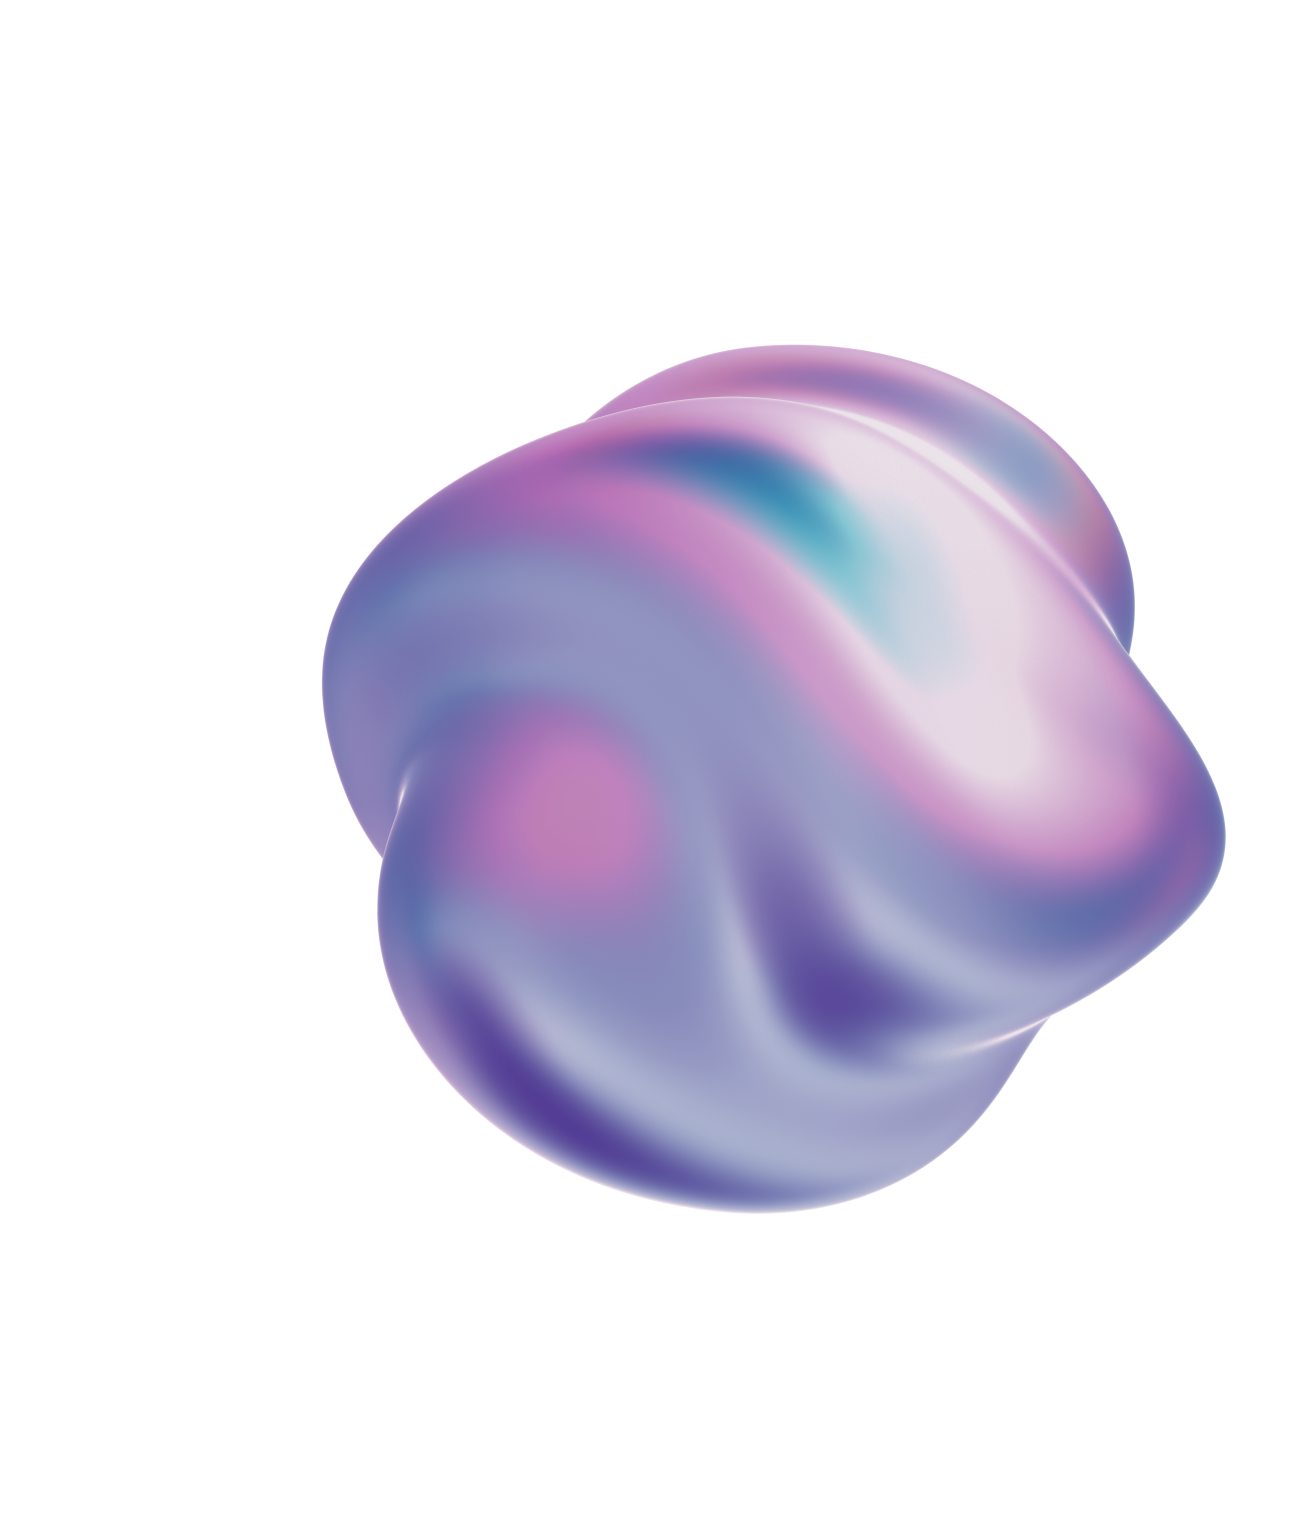
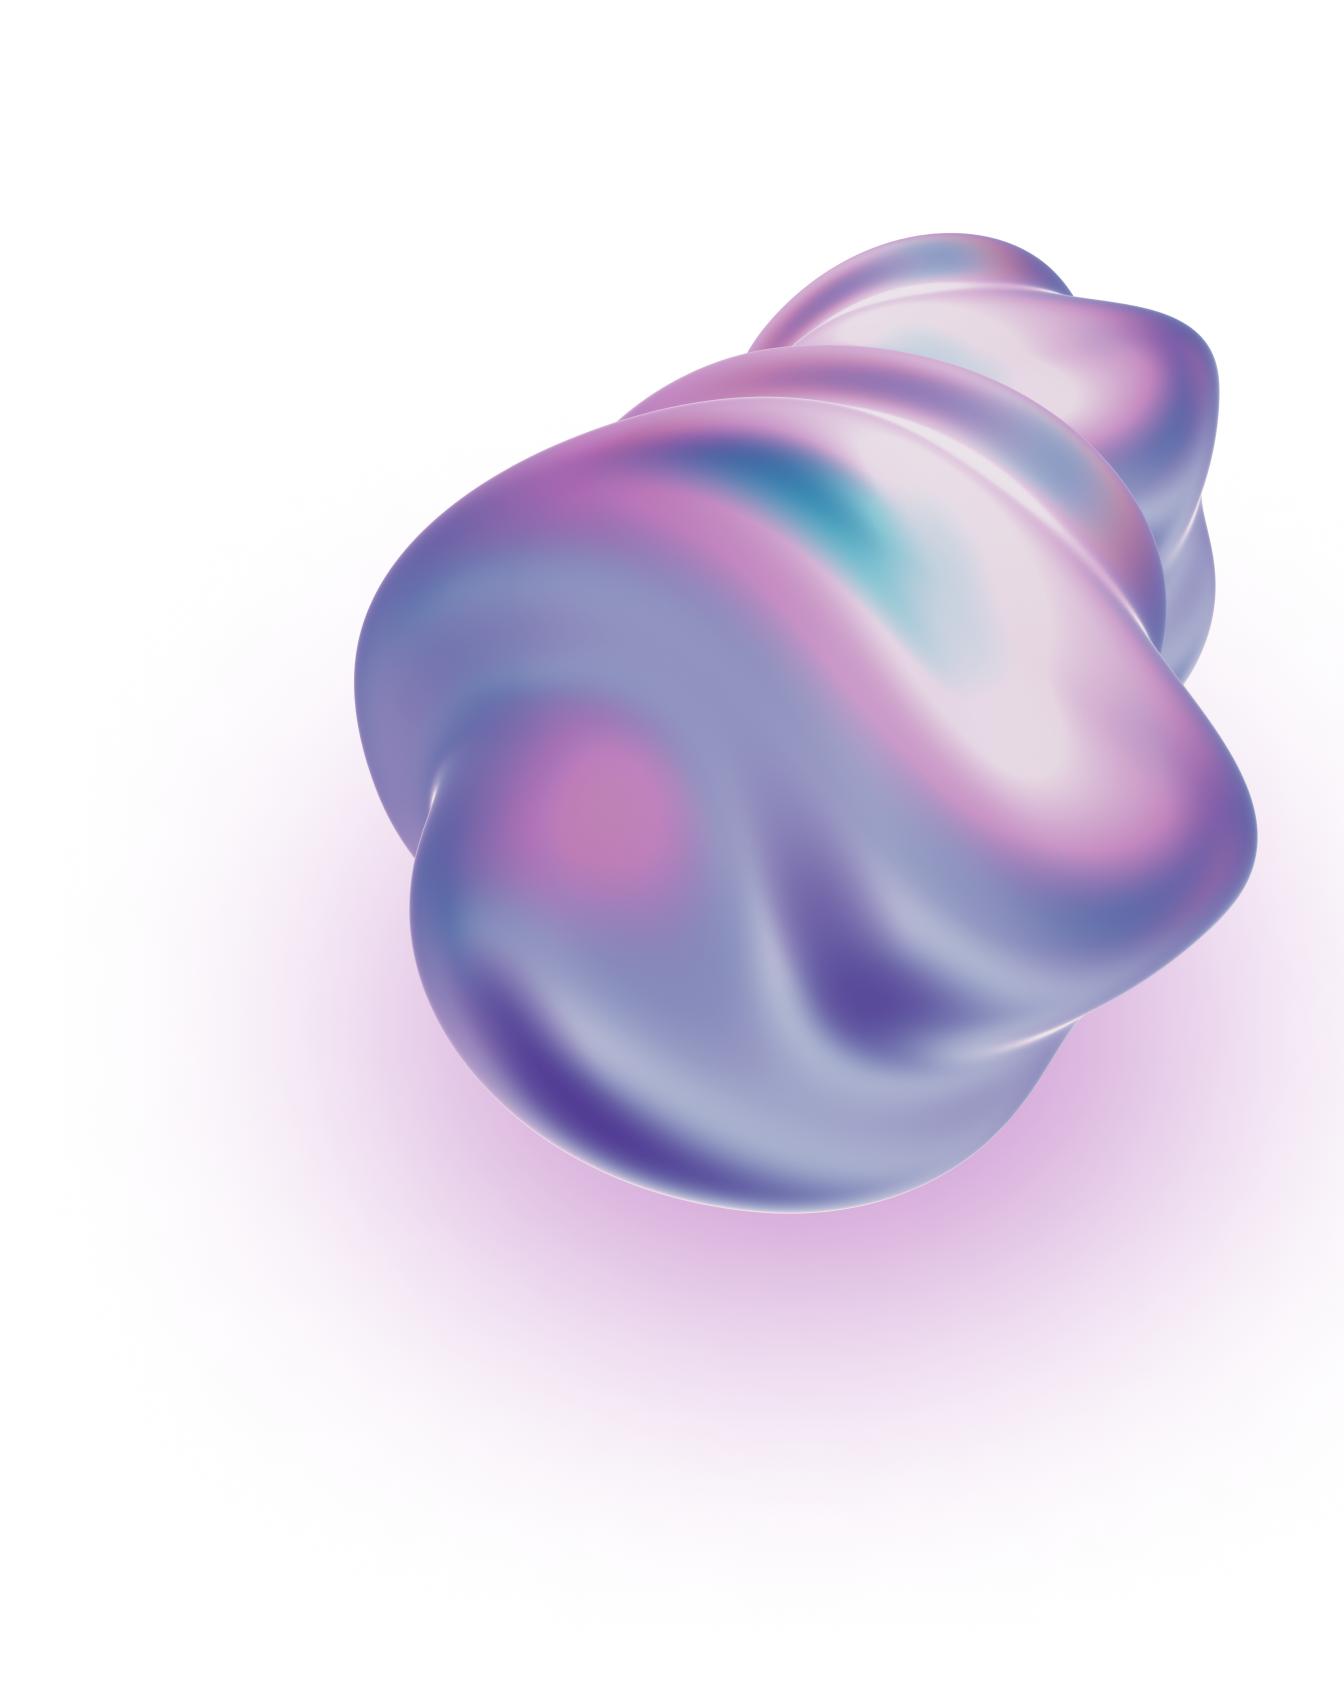
Update: HeroArea

Changed region(s): [[0.2188, 0.1226, 0.9688, 0.8579]]

diff --git a/src/components/Navbar.vue b/src/components/Navbar.vue
@@ -1,17 +1,17 @@
 <template>
-  <nav class="flex items-center w-full bg-black py-4 font-sora">
+  <nav class="flex items-center w-full py-4 font-sora absolute top-0 left-0 z-10">
     <container-wrapper container-classes="flex items-center justify-between">
       <!-- logo -->
       <a href="#">
-        <img class="w-[40px] lg:w-[60px]" :src="Logo" alt="NFT Logo" />
+        <img class="w-[60px]" :src="Logo" alt="NFT Logo" />
       </a>
       <!-- nav menu mobile toggler -->
       <i
         @click="toggleMobileMenu"
-        class="pi pi-bars text-white text-2xl cursor-pointer lg:hidden"
+        class="pi pi-bars text-white text-3xl cursor-pointer lg:hidden"
       ></i>
       <ul
-        :class="`absolute top-0 left-0 z-10 bg-white w-full h-screem p-5 items-center flex-col justify-center h-full gap-10 ${mobileMenuClasses} lg:flex lg:bg-transparent lg:static lg:gap-8 lg:text-white lg:w-fit h-fit lg:flex-row`"
+        :class="`absolute top-0 left-0 z-10 bg-white w-full h-screen p-5 items-center flex-col justify-center gap-10 ${mobileMenuClasses} lg:flex lg:bg-transparent lg:static lg:gap-8 lg:text-white lg:w-fit h-fit lg:flex-row lg:h-fit`"
       >
         <li class="text-3xl uppercase cursor-pointer lg:text-lg lg:capitalize">Home</li>
         <li class="text-3xl uppercase cursor-pointer lg:text-lg lg:capitalize">
@@ -22,7 +22,7 @@
         </li>
         <i
           @click="toggleMobileMenu"
-          class="pi pi-times absolute top-5 right-5 cursor-pointer text-2xl text-black z-20 lg:hidden"
+          class="pi pi-times absolute top-5 right-5 cursor-pointer text-3xl text-black z-20 lg:hidden"
         ></i>
       </ul>
     </container-wrapper>

diff --git a/src/components/HeroArea.vue b/src/components/HeroArea.vue
@@ -1,0 +1,44 @@
+<template>
+  <div
+    class="h-[50vh] w-full bg-hero bg-cover bg-fixed bg-center flex flex-col items-center justify-center text-white lg:justify-end lg:pb-[60px]"
+  >
+    <container-wrapper container-classes="lg:grid lg:grid-cols-2 lg:relative">
+      <div class="relative">
+        <h1
+          class="max-w-[570px] mx-auto font-outfit text-6xl font-bold text-center lg:max-w-fit lg:text-left lg:text-7xl xl:text-8xl"
+        >
+          Mountain NFT Collectibles
+        </h1>
+        <a href="#content">
+            <img class="w-40 h-40 absolute top-[140%] left-1/2 transform -translate-x-1/2 cursor-pointer lg:bottom-full lg:top-auto lg:left-0 lg:transform-none lg:w-60 lg:h-60" :src="scrollImage" alt="scroll-image" />
+        </a>
+      </div>
+      <img
+        class="hidden lg:block lg:absolute lg:w-[500px] lg:-top-[200px] lg:right-0 xl:w-[700px] xl:-top-[300px]"
+        :src="orbImage"
+        alt="orb graphic"
+      />
+    </container-wrapper>
+  </div>
+</template>
+
+<script>
+import ContainerWrapper from "./ContainerWrapper.vue";
+import orbImage from "../assets/Orb.png";
+import scrollImage from "../assets/scroll.png";
+
+export default {
+  name: "HeroArea",
+  components: {
+    ContainerWrapper,
+  },
+  data() {
+    return {
+      orbImage,
+      scrollImage,
+    };
+  },
+};
+</script>
+
+<style scoped></style>

diff --git a/src/App.vue b/src/App.vue
@@ -1,14 +1,17 @@
 <template>
     <navbar-component />
+    <hero-area />
 </template>
 
 <script>
 import NavbarComponent from "./components/Navbar.vue";
+import HeroArea from "./components/HeroArea.vue";
 
 export default {
     name: "App",
     components: {
         NavbarComponent,
+        HeroArea,
     },
 };
 </script>

diff --git a/tailwind.config.js b/tailwind.config.js
@@ -7,6 +7,9 @@ module.exports = {
         'sora': ['Sora', 'sans-serif'],
         'outfit': ['Outfit', 'sans-serif'],
       },
+      backgroundImage: {
+        'hero': "url('/src/assets/background.jpg')",
+      },
     },
   },
   plugins: [],

diff --git a/src/components/ContainerWrapper.vue b/src/components/ContainerWrapper.vue
@@ -1,5 +1,5 @@
 <template>
-  <div :class="`container mx-auto px-4 md:px-0 ${containerClasses}`">
+  <div :class="`container mx-auto px-4 ${containerClasses}`">
     <slot></slot>
   </div>
 </template>
